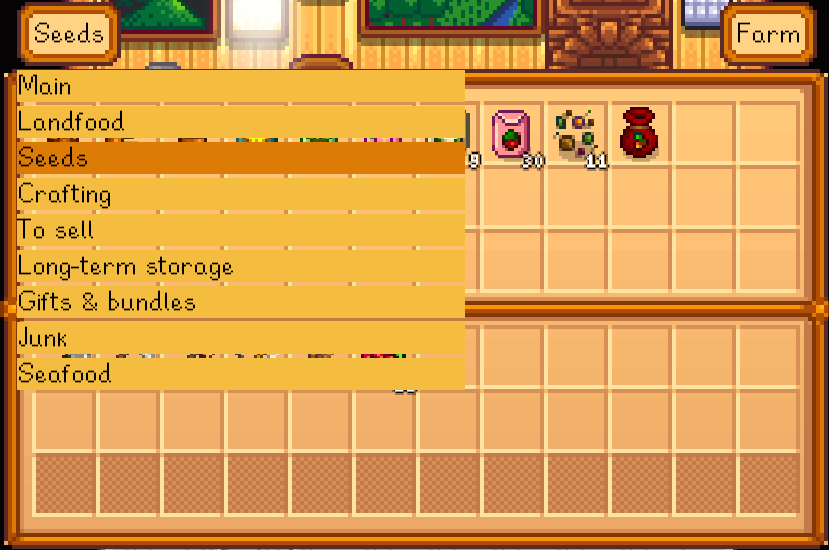
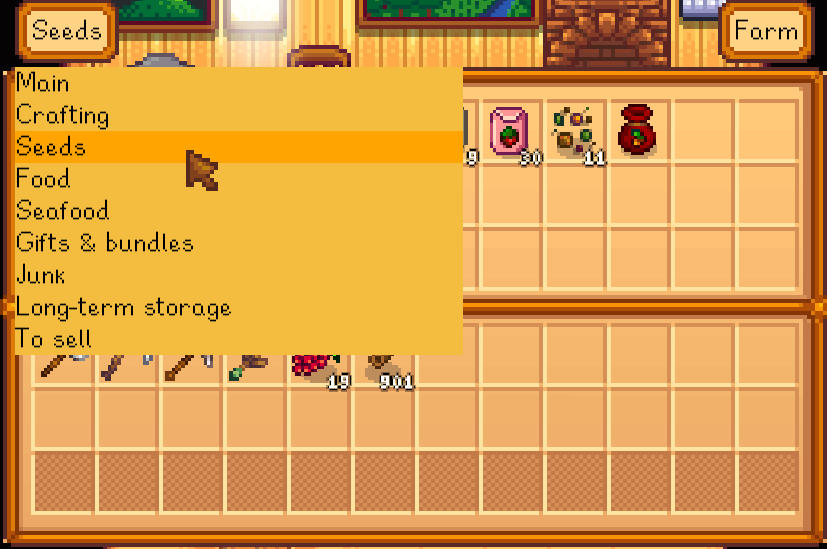
remove whitespace between dropdown items

Changed region(s): [[0.0, 0.0, 1.0, 1.0]]

diff --git a/AccessChestAnywhere/DropList.cs b/AccessChestAnywhere/DropList.cs
@@ -32,6 +32,9 @@ namespace AccessChestAnywhere
         /// <summary>The font with which to render text.</summary>
         private readonly SpriteFont Font;
 
+        /// <summary>The height of text rendered in the <see cref="Font"/>.</summary>
+        private readonly int FontHeight;
+
         /// <summary>The background for the selected item.</summary>
         private readonly Rectangle ActiveBackground = new Rectangle(258, 258, 4, 4);
 
@@ -65,11 +68,12 @@ namespace AccessChestAnywhere
                 .Select((item, index) => new DropListItem<TItem>(index, nameSelector(item), item))
                 .ToArray();
             this.Font = font;
+            this.FontHeight = (int)font.MeasureString("abcdefghijklmnopqrstuvwxyz").Y;
             this.ToRight = toRight;
 
             // set dimensions
             this.bounds.Width = Game1.tileSize * 7;
-            this.bounds.Height = (int)font.MeasureString("abcdefghijklmnopqrstuvwxyz").Y * 10 + Game1.tileSize / 16 * 9;
+            this.bounds.Height = this.FontHeight * 10 + Game1.tileSize / 16 * 9;
             this.bounds.X = toRight
                 ? x
                 : x - this.bounds.Width;
@@ -129,11 +133,11 @@ namespace AccessChestAnywhere
             int x = this.bounds.X;
             int y = this.bounds.Y;
             int width = this.bounds.Width;
-            int height = (int)this.Font.MeasureString("abcdefghijklmnopqrstuvwxyz").Y;
+            int height = this.FontHeight;
             for (int i = 0; i < this.Items.Length && i < 10; i++)
             {
                 this.ItemComponents.Add(new ClickableComponent(new Rectangle(x, y, width, height), i.ToString()));
-                y += (int)this.Font.MeasureString("abcdefghijklmnopqrstuvwxyz").Y + Game1.tileSize / 16;
+                y += this.FontHeight;
             }
         }
 

diff --git a/README.md b/README.md
@@ -31,8 +31,6 @@ pipes (like `|1|`) somewhere in the chest name:
 The chests will be sorted by that number, _then_ alphabetically. Chests with a specific order will
 appear before those without.
 
-![](screenshots/tags-order-list.png)
-
 ### Hidden chests
 Hide a chest by adding `|ignore|` to its name.
 
